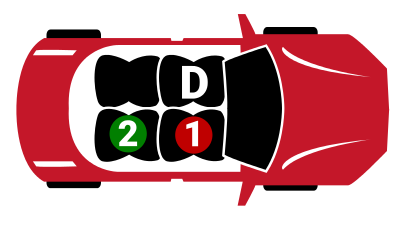
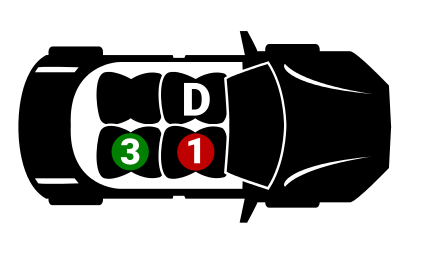
updated images and css for respective passenger number

diff --git a/index.js b/index.js
@@ -1,4 +1,4 @@
-//set the treatment number
+2//set the treatment number
 // Treatment 1: one additional passenger, drop off order: P1, P0
 // Treatment 2: two additional passengers, drop off order: P1, P2, P0
 // Treatment 3: two additional passengers, drop off order: P2, P1, P0
@@ -204,7 +204,7 @@ function getLocations(){
 //displays the locations on screen for pick up only.
 function addLocations(passengerID){
     var pickup;
-    if(passengerID > 0){
+    if(passengerID > 1){
         setTimeout(function (){
             let newDuration = parseInt(document.getElementById("time").innerHTML.split(":")[0]) * 60 +
             parseInt(document.getElementById("time").innerHTML.split(":")[1]) + 23;
@@ -247,21 +247,26 @@ function addLocations(passengerID){
     $(".minorRoute").css("display", "block");
 
     //gets the DOM element for the pick up location.
-    var pickup = $(".grid div:nth-child(" + (passengerID == 0 ? p0 : passengerID == 1 ? p1 : p2) + ")");
+    var pickup = $(".grid div:nth-child(" + (passengerID == 1 ? p0 : passengerID == 2 ? p1 : p2) + ")");
 
-    if(passengerID == 0){
+    if(passengerID == 1){
         //add the pick up image on the location.
         pickup.append("<img class='participant' src='images/d" + passengerID +
-        ".png' alt='Destination'><strong class= 'p0Tag locTag' >Your Pickup!</strong>");
+        ".png' alt='Destination'><strong class= 'p1Tag locTag' >Your Pickup!</strong>");
 
         var dropoff = $(".grid div:nth-child(" + endLocation + ")");
-        dropoff.append("<img class='participant'src='images/d0.png' alt='Destination'>"+
-        "<strong class= 'p0Tag locTag' >Your Dropoff!</strong>");
+        dropoff.append("<img class='participant'src='images/d1.png' alt='Destination'>"+
+        "<strong class= 'p1Tag locTag' >Your Dropoff!</strong>");
     }
-    else{
+    else if(passengerID == 2){
         //add the pick up image on the location.
-        pickup.append("<img class='destination' src='images/d" + passengerID +
-        ".png' alt='Destination'><strong class= 'locTag' >Pick up Passenger " + passengerID + "</strong>");
+        pickup.append("<img class='destination' src='images/d2"+
+        ".png' alt='Destination'><strong class= 'locTag p2Tag' >Pick up Passenger 2</strong>");
+    }
+    else{ //if(passengerID == 3)
+        //add the pick up image on the location.
+        pickup.append("<img class='destination' src='images/d3"+
+        ".png' alt='Destination'><strong class= 'locTag p3Tag' >Pick up Passenger 3</strong>");
     }
 }
 
@@ -282,16 +287,17 @@ function updateRoute(cell){
     }
     // if location is above
     else if (carLocation > cell){
-        //because treatment 2 does not have drop off above the major route
+        //because treatment 2 does not have drop off above the major route, we only need this order of
+        //appearance of dropoff for treatment 3
         if(treatment == 3){
             //add the destination image to the screen along with the route.
             if(numStopsReached == 2){
                 var dropoff = $(".grid div:nth-child(" + d1 + ")");
-                dropoff.append("<img class='destination' src='images/d1.png' alt='Destination'><strong class= 'locTag' >Drop off Passenger 1</strong>");
+                dropoff.append("<img class='destination' src='images/d2.png' alt='Destination'><strong class= 'locTag p2Tag' >Drop off Passenger 2</strong>");
             }
             else if(numStopsReached == 3){
                 var dropoff = $(".grid div:nth-child(" + d2 + ")");
-                dropoff.append("<img class='destination' src='images/d2.png' alt='Destination'><strong class= 'locTag' >Drop off Passenger 2</strong>");
+                dropoff.append("<img class='destination' src='images/d3.png' alt='Destination'><strong class= 'locTag p3Tag' >Drop off Passenger 3</strong>");
             }
         }
 
@@ -319,14 +325,27 @@ function updateRoute(cell){
     //if location is down
     else if(carLocation + width < cell){
         //add the destination image to the screen along with the route.
-        if(numStopsReached == 2){
-            var dropoff = $(".grid div:nth-child(" + d1 + ")");
-            dropoff.append("<img class='destination' src='images/d1.png' alt='Destination'><strong class= 'locTag' >Drop off Passenger 1</strong>");
+        if(treatment == 2){
+            if(numStopsReached == 2){
+                var dropoff = $(".grid div:nth-child(" + d1 + ")");
+                dropoff.append("<img class='destination' src='images/d2.png' alt='Destination'><strong class= 'locTag p2Tag' >Drop off Passenger 2</strong>");
+            }
+            else if(numStopsReached == 4){
+                var dropoff = $(".grid div:nth-child(" + d2 + ")");
+                dropoff.append("<img class='destination' src='images/d3.png' alt='Destination'><strong class= 'locTag p3Tag' >Drop off Passenger 3</strong>");
+            }
         }
-        else if(numStopsReached == 3){
-            var dropoff = $(".grid div:nth-child(" + d2 + ")");
-            dropoff.append("<img class='destination' src='images/d2.png' alt='Destination'><strong class= 'locTag' >Drop off Passenger 2</strong>");
+        else{ //treatment 3
+            if(numStopsReached == 3){
+                var dropoff = $(".grid div:nth-child(" + d2 + ")");
+                dropoff.append("<img class='destination' src='images/d3.png' alt='Destination'><strong class= 'locTag p3Tag' >Drop off Passenger 3</strong>");
+            }
+            else if(numStopsReached == 4){
+                var dropoff = $(".grid div:nth-child(" + d1 + ")");
+                dropoff.append("<img class='destination' src='images/d2.png' alt='Destination'><strong class= 'locTag p2Tag' >Drop off Passenger 2</strong>");
+            }
         }
+
         //direction is changed to "down" for animate to remove visited location
         direction = "down";
         //gets to the same column
@@ -354,7 +373,7 @@ function updateRoute(cell){
     route.push("p");
 
     if(numStopsReached == 0){
-        addLocations(0);
+        addLocations(1);
     }
     setTimeout(function(){
         animateCar(cell, displacedCells, direction);
@@ -385,7 +404,7 @@ function animateCar(cell, displacedCells, dir){
                 let timeAtOpen, timeAtClose;
                 Swal.fire({
                     title: "Alert!",
-                    text: "Your driver has arrived. You will arrive in " + document.getElementById("time").innerHTML,
+                    text: "Passenger 1, your driver has arrived. You will arrive in " + document.getElementById("time").innerHTML,
                     type: "info",
                     allowOutsideClick: false,
                     allowEscapeKey: false,
@@ -400,8 +419,8 @@ function animateCar(cell, displacedCells, dir){
                 });
 
                 setTimeout(function(){
-                    //first additional passenger locations after 5 second delay
-                    addLocations(1);
+                    //second passenger locations after 5 second delay
+                    addLocations(2);
                 }, 5000);
             }
 
@@ -425,7 +444,7 @@ function animateCar(cell, displacedCells, dir){
                 else if(numStopsReached == 4){
                     document.getElementById("car").src = 'images/car2.png';
                 }
-                else{ //last stop 6
+                else{ //last stop 6 i.e car only has driver
                     document.getElementById("car").src = 'images/car.png';
                 }
             }
@@ -446,10 +465,10 @@ function animateCar(cell, displacedCells, dir){
 
             //add location of second passenger to the screen according to the treatment
             if(treatment == 2 && numStopsReached == 3){
-                addLocations(2);
+                addLocations(3);
             }
             else if(treatment == 3 && numStopsReached == 2){
-                addLocations(2);
+                addLocations(3);
             }
             if(numStopsReached == 6){
                 clearInterval(ratingInterval);
@@ -510,7 +529,7 @@ function animateCar(cell, displacedCells, dir){
                         "transform": "rotate(0deg)"
                     });
 
-                    $("#car").supremate({"left": "+=70"}, 15, "linear", function(){
+                    $("#car").supremate({"left": "+=70"}, 20, "linear", function(){
                         route.shift();
                         pauseAndRemove();
                         adjustRoute();
@@ -523,7 +542,7 @@ function animateCar(cell, displacedCells, dir){
                         "transform": "rotate(-90deg)"
                     });
 
-                    $("#car").supremate({"top": "-=70"}, 15, "linear", function(){
+                    $("#car").supremate({"top": "-=70"}, 20, "linear", function(){
                         route.shift();
                         pauseAndRemove();
                         adjustRoute();
@@ -536,7 +555,7 @@ function animateCar(cell, displacedCells, dir){
                         "transform": "rotate(90deg)"
                     });
 
-                    $("#car").supremate({"top": "+=70"}, 15, "linear", function(){
+                    $("#car").supremate({"top": "+=70"}, 20, "linear", function(){
                         route.shift();
                         pauseAndRemove();
                         adjustRoute();
@@ -551,7 +570,7 @@ function animateCar(cell, displacedCells, dir){
                         "transform": "rotate(0deg)"
                     });
 
-                    $("#car").supremate({"left": "+=70"}, 15, "linear", function(){
+                    $("#car").supremate({"left": "+=70"}, 20, "linear", function(){
                         route.shift();
                         pauseAndRemove();
                         adjustRoute();

diff --git a/index.html b/index.html
@@ -2,7 +2,7 @@
 <html lang="en">
 <body>
     <div class="timer"><p class="timerText">Destination arrives in <span id="time">---</span> minutes!</p></div>
-    <a id="attribution" href="https://www.vecteezy.com">Free Vector Graphics by Vecteezy!</a>
+    <a id="attribution">Free Vector Graphics by Vecteezy!</a>
 </body>
 <footer>
     <link rel="stylesheet" href="./index.css"/>

diff --git a/index.css b/index.css
@@ -75,12 +75,23 @@ body {
     position: relative;
     font-size: smaller;
     z-index: 3;
-    color: rgb(212, 37, 212);
+    color: black;
 }
 
-.p0Tag {
+.p1Tag {
     top: 82px;
+    color: #BF0000;
 }
+
+.p2Tag {
+    color: #0000BF;
+}
+
+.p3Tag {
+    color: #007F00;
+}
+
+
 
 .timer {
     position: absolute;
